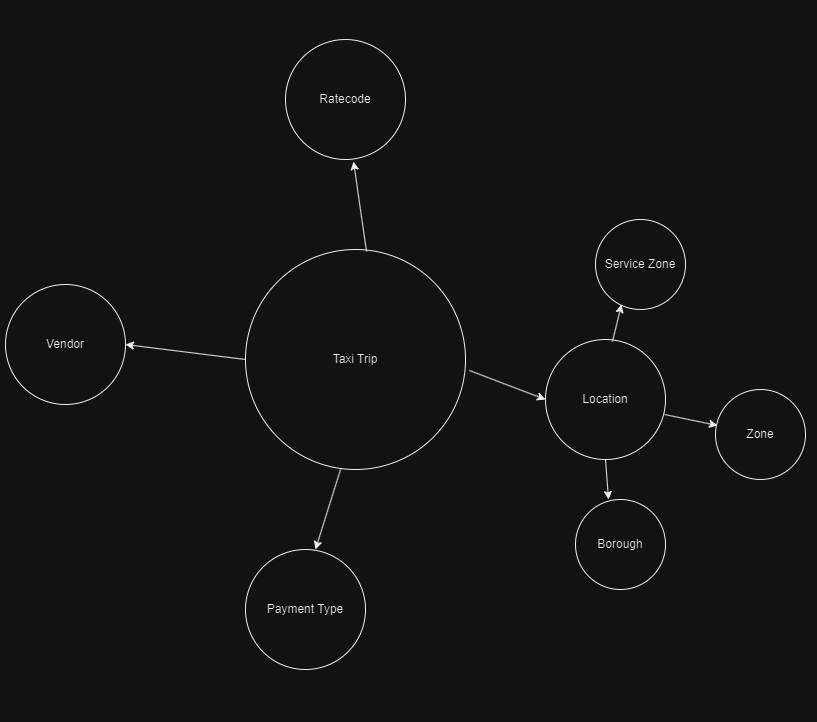
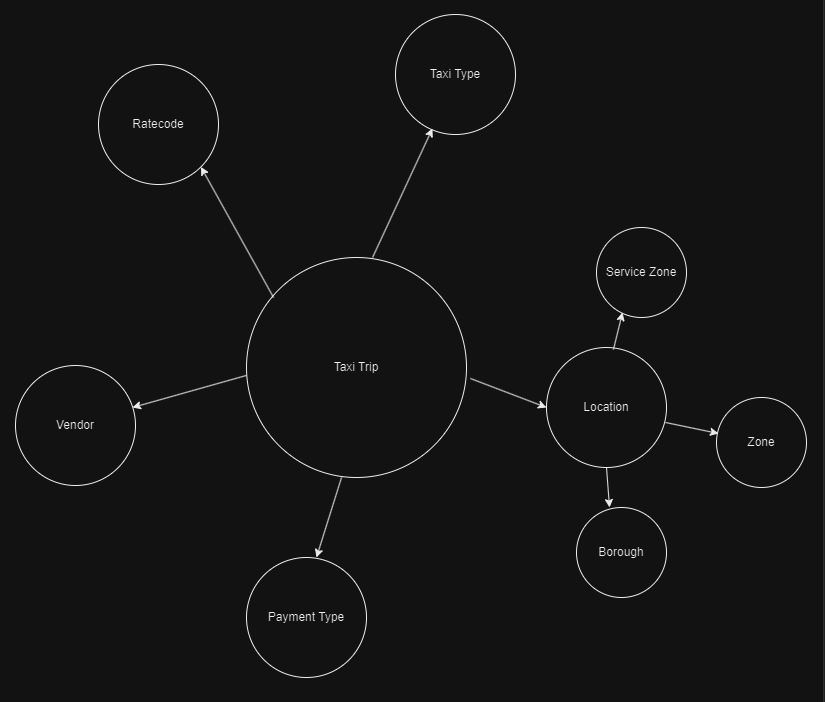
notes complete

diff --git a/README.md b/README.md
@@ -8,83 +8,78 @@ The core of the project is a dynamic framework that allows for the easy creation
 
 ![main airflow architecture](notes/airflow_pipeline.png)
 
-
 The second half of this project is...
 
-**Data Warehousing Architecture**:
+## Data Warehousing Architecture
 
-## Part 1: Cloud Infrastructure Set-Up
+### Part 1: Cloud Infrastructure Set-Up
 
 In this section, we establish the foundational cloud infrastructure required to run our ETL pipeline using AWS services. The key components include:
 
-### 1. Identity and Access Management (IAM):
+1. **Identity and Access Management (IAM)**:
+   - **User and Group Setup**: Creation of a dedicated IAM user (`data-pipeline`) and an IAM group (`data-pipeline-group`) to manage permissions securely.
+   - **Policy Creation**: Definition of a custom IAM policy to provide the necessary permissions to access S3 buckets, EC2 instances, and RDS databases.
 
-- **User and Group Setup**: Creation of a dedicated IAM user (`data-pipeline`) and an IAM group (`data-pipeline-group`) to manage permissions securely.
-- **Policy Creation**: Definition of a custom IAM policy to provide the necessary permissions to access S3 buckets, EC2 instances, and RDS databases.
+2. **Amazon S3**:
+   - **Bucket Creation**: Creation of two S3 buckets—one for storing DAGs (`data-pipeline-airflow-dags`) and another for staging data (`data-pipeline-staging-data`).
 
-### 2. Amazon S3:
+3. **Amazon RDS**:
+   - **Database Setup**: Creation of an RDS PostgreSQL database (`data-pipeline-database`) to store the final datasets, with appropriate security groups configured.
 
-- **Bucket Creation**: Creation of two S3 buckets—one for storing DAGs (`data-pipeline-airflow-dags`) and another for staging data (`data-pipeline-staging-data`).
+4. **Amazon EC2**:
+   - **Instance Launch**: Launching an EC2 instance (`airflow-server`) with Ubuntu, which hosts the Airflow server.
+   - **Elastic IP**: Allocation of an Elastic IP for a static address to access the Airflow server.
 
-### 3. Amazon RDS:
+5. **Airflow Installation**:
+   - **Environment Setup**: Configuration of the EC2 instance with Python, installation of Airflow in a virtual environment, and setup of the Airflow web server and scheduler to start automatically.
 
-- **Database Setup**: Creation of an RDS PostgreSQL database (`data-pipeline-database`) to store the final datasets, with appropriate security groups configured.
+6. **AWS CLI Installation**:
+   - **CLI Installation**: Installation of AWS CLI on the EC2 instance to interact with AWS services.
 
-### 4. Amazon EC2:
+7. **IAM Credentials Configuration on EC2**:
+   - **Credentials Configuration**: Setup of IAM credentials on the EC2 instance for secure interaction with AWS services.
 
-- **Instance Launch**: Launching an EC2 instance (`airflow-server`) with Ubuntu, which hosts the Airflow server.
-- **Elastic IP**: Allocation of an Elastic IP for a static address to access the Airflow server.
-
-### 5. Airflow Installation:
-
-- **Environment Setup**: Configuration of the EC2 instance with Python, installation of Airflow in a virtual environment, and setup of the Airflow web server and scheduler to start automatically.
-
-### 6. AWS CLI Installation:
-
-- **CLI Installation**: Installation of AWS CLI on the EC2 instance to interact with AWS services.
-
-### 7. IAM Credentials Configuration on EC2:
-
-- **Credentials Configuration**: Setup of IAM credentials on the EC2 instance for secure interaction with AWS services.
-
-### 8. CI/CD Pipeline Setup:
-
-- **GitHub Actions**: Configuration of a GitHub Actions pipeline to automate the deployment of DAGs and their dependencies, maintaining synchronization between the S3 bucket and the EC2 server.
+8. **CI/CD Pipeline Setup**:
+   - **GitHub Actions**: Configuration of a GitHub Actions pipeline to automate the deployment of DAGs and their dependencies, maintaining synchronization between the S3 bucket and the EC2 server.
 
 For detailed instructions on setting up the cloud infrastructure, please refer to the [AWS Service Setup](https://github.com/aaAbdulkadir/cloud-data-project-1/blob/main/notes/cloud_setup.md) notes.
 
-## Part 2: Developing Airflow Infrastructure/Codebase
+### Part 2: Developing Airflow Infrastructure/Codebase
 
 In this part, we focus on developing the Airflow infrastructure and the codebase needed to manage and execute the ETL processes:
 
-### 1. **Dynamic DAG Framework**: 
+1. **Dynamic DAG Framework**:
+   - We implement a dynamic framework that enables the generation of multiple DAGs from YAML configuration files. This includes defining task sequences, dependencies, and scheduling directly through YAML, making it easier to create and manage various ETL processes.
 
-We implement a dynamic framework that enables the generation of multiple DAGs from YAML configuration files. This includes defining task sequences, dependencies, and scheduling directly through YAML, making it easier to create and manage various ETL processes.
+2. **Scrape Structure**:
+   - **Functions File**: Contains core business logic for `extract`, `transform`, and `load` operations.
+   - **Helper Functions File**: Reusable functions that assist in maintaining clean and manageable code.
+   - **YAML Configuration**: Specifies the DAG structure, including tasks, dependencies, and scheduling parameters.
+   - **Testing**: Includes component tests for the core functions and unit tests for helper functions to ensure reliability and correctness.
 
-### 2. **Scrape Structure**:
+3. **Task Management**:
+   - **Task Wrapper**: A central mechanism that handles file management, task execution, and data transfer between S3 and PostgreSQL, while also supporting XCom integration and file comparison checks.
 
-- **Functions File**: Contains core business logic for `extract`, `transform`, and `load` operations.
-- **Helper Functions File**: Reusable functions that assist in maintaining clean and manageable code.
-- **YAML Configuration**: Specifies the DAG structure, including tasks, dependencies, and scheduling parameters.
-- **Testing**: Includes component tests for the core functions and unit tests for helper functions to ensure reliability and correctness.
+This section details the development and configuration of the Airflow infrastructure, ensuring efficient management and execution of the ETL pipeline. Please refer to the [Understanding the Code Base](https://github.com/aaAbdulkadir/cloud-data-project-1/blob/main/notes/code_setup.md) notes.
 
-### 3. **Task Management**:
+### Part 3: Data Warehousing
 
-- **Task Wrapper**: A central mechanism that handles file management, task execution, and data transfer between S3 and PostgreSQL, while also supporting XCom integration and file comparison checks.
+In this section, we focus on setting up and managing data warehousing using Amazon Redshift and Lambda functions, migrating the data from RDS to Redshift, using the New York taxi dataset as the data of interest for analysis.
 
+1. **Setting Up Redshift**:
+   - **Create Redshift Cluster**
+   - **Redshift Table Creation**: Define tables and relationships based on the datase.
 
-This section details the development and configuration of the Airflow infrastructure, ensuring efficient management and execution of the ETL pipeline. Please refer to the [Understanding the Code Base](https://github.com/aaAbdulkadir/cloud-data-project-1/blob/main/notes/code_setup.md) notes
+2. **Setting Up Lambda**:
+   - **Create Lambda Function**.
+   - **Add Code**: Implement Python code to transfer data from RDS to Redshift, including table creation and data insertion.
+   - **Configure Environment Variables**: Set database connection parameters for RDS and Redshift.
+   - **Add Layer**: Use Docker to create a layer with required dependencies (`psycopg2-binary`, `pandas`), and attach it to the Lambda function.
+   - **Add Trigger**: Set up an S3 trigger for Lambda to activate on new `.csv` files in a specific bucket prefix.
 
-
-## Part 3: Data Warehousing
-
-
-
+For detailed instructions on setting up Redshift and Lambda, refer to the [Data Warehousing Setup](https://github.com/aaAbdulkadir/cloud-data-project-1/blob/main/notes/datawarehouse_setup.md) notes.
 
 # Improvements
 
-- Add upsert to list of load mode
-
-- Scalability of airflow pipeline to handle larger datasets
-
-- For RDS to Redshift, use cloudwatch logs (RDS db logs) to trigger a run for the migration to occur OR trigger when new file uploaded to s3 bucket.
+- **Add Upsert to Load Mode**: Integrate upsert functionality to handle data updates.
+- **Scalability of Airflow Pipeline**: Enhance Airflow pipeline to handle larger datasets and improve performance.

diff --git a/notes/datawarehouse_setup.md b/notes/datawarehouse_setup.md
@@ -222,6 +222,7 @@ DROP TABLE IF EXISTS zone;
 DROP TABLE IF EXISTS payment_type;
 DROP TABLE IF EXISTS ratecode;
 DROP TABLE IF EXISTS vendor;
+DROP TABLE IF EXISTS taxi_type;
 
 -- Create the vendor table
 CREATE TABLE vendor (
@@ -311,6 +312,17 @@ JOIN zone z ON nt.zone = z.name
 JOIN borough b ON nt.borough = b.name
 JOIN service_zone s ON nt.service_zone = s.name;
 
+-- Create the taxi_type table
+CREATE TABLE taxi_type (
+    id INTEGER IDENTITY(1, 1) PRIMARY KEY,
+    type VARCHAR(255) NOT NULL
+);
+
+-- Insert into taxi_type table
+INSERT INTO taxi_type (type)
+SELECT DISTINCT taxi_type
+FROM new_york_taxi;
+
 -- Create the taxi_trip table
 CREATE TABLE taxi_trip (
     id INTEGER IDENTITY(1, 1) PRIMARY KEY,
@@ -333,11 +345,12 @@ CREATE TABLE taxi_trip (
     congestion_surcharge FLOAT,
     airport_fee FLOAT,
     location_id INTEGER NOT NULL,
-    taxi_type VARCHAR(255),
+    taxi_type_id INTEGER NOT NULL,
     FOREIGN KEY (vendor_id) REFERENCES vendor(id),
     FOREIGN KEY (ratecode_id) REFERENCES ratecode(id),
     FOREIGN KEY (payment_type_id) REFERENCES payment_type(id),
-    FOREIGN KEY (location_id) REFERENCES location(id)
+    FOREIGN KEY (location_id) REFERENCES location(id),
+    FOREIGN KEY (taxi_type_id) REFERENCES taxi_type(id)
 );
 
 -- Insert into taxi_trip table
@@ -361,7 +374,7 @@ INSERT INTO taxi_trip (
     congestion_surcharge,
     airport_fee,
     location_id,
-    taxi_type
+    taxi_type_id
 )
 SELECT
     v.id AS vendor_id,
@@ -383,12 +396,13 @@ SELECT
     nt.congestion_surcharge,
     nt.airport_fee,
     l.id AS location_id,
-    nt.taxi_type
+    tt.id AS taxi_type_id
 FROM new_york_taxi nt
 JOIN vendor v ON nt.vendor_id = v.name
 JOIN ratecode r ON nt.ratecode = r.description
 JOIN payment_type pt ON nt.payment_type = pt.method
 JOIN location l ON nt.zone = (SELECT name FROM zone WHERE id = l.zone_id)
                   AND nt.borough = (SELECT name FROM borough WHERE id = l.borough_id)
-                  AND nt.service_zone = (SELECT name FROM service_zone WHERE id = l.service_zone_id);
+                  AND nt.service_zone = (SELECT name FROM service_zone WHERE id = l.service_zone_id)
+JOIN taxi_type tt ON nt.taxi_type = tt.type;
 ```
